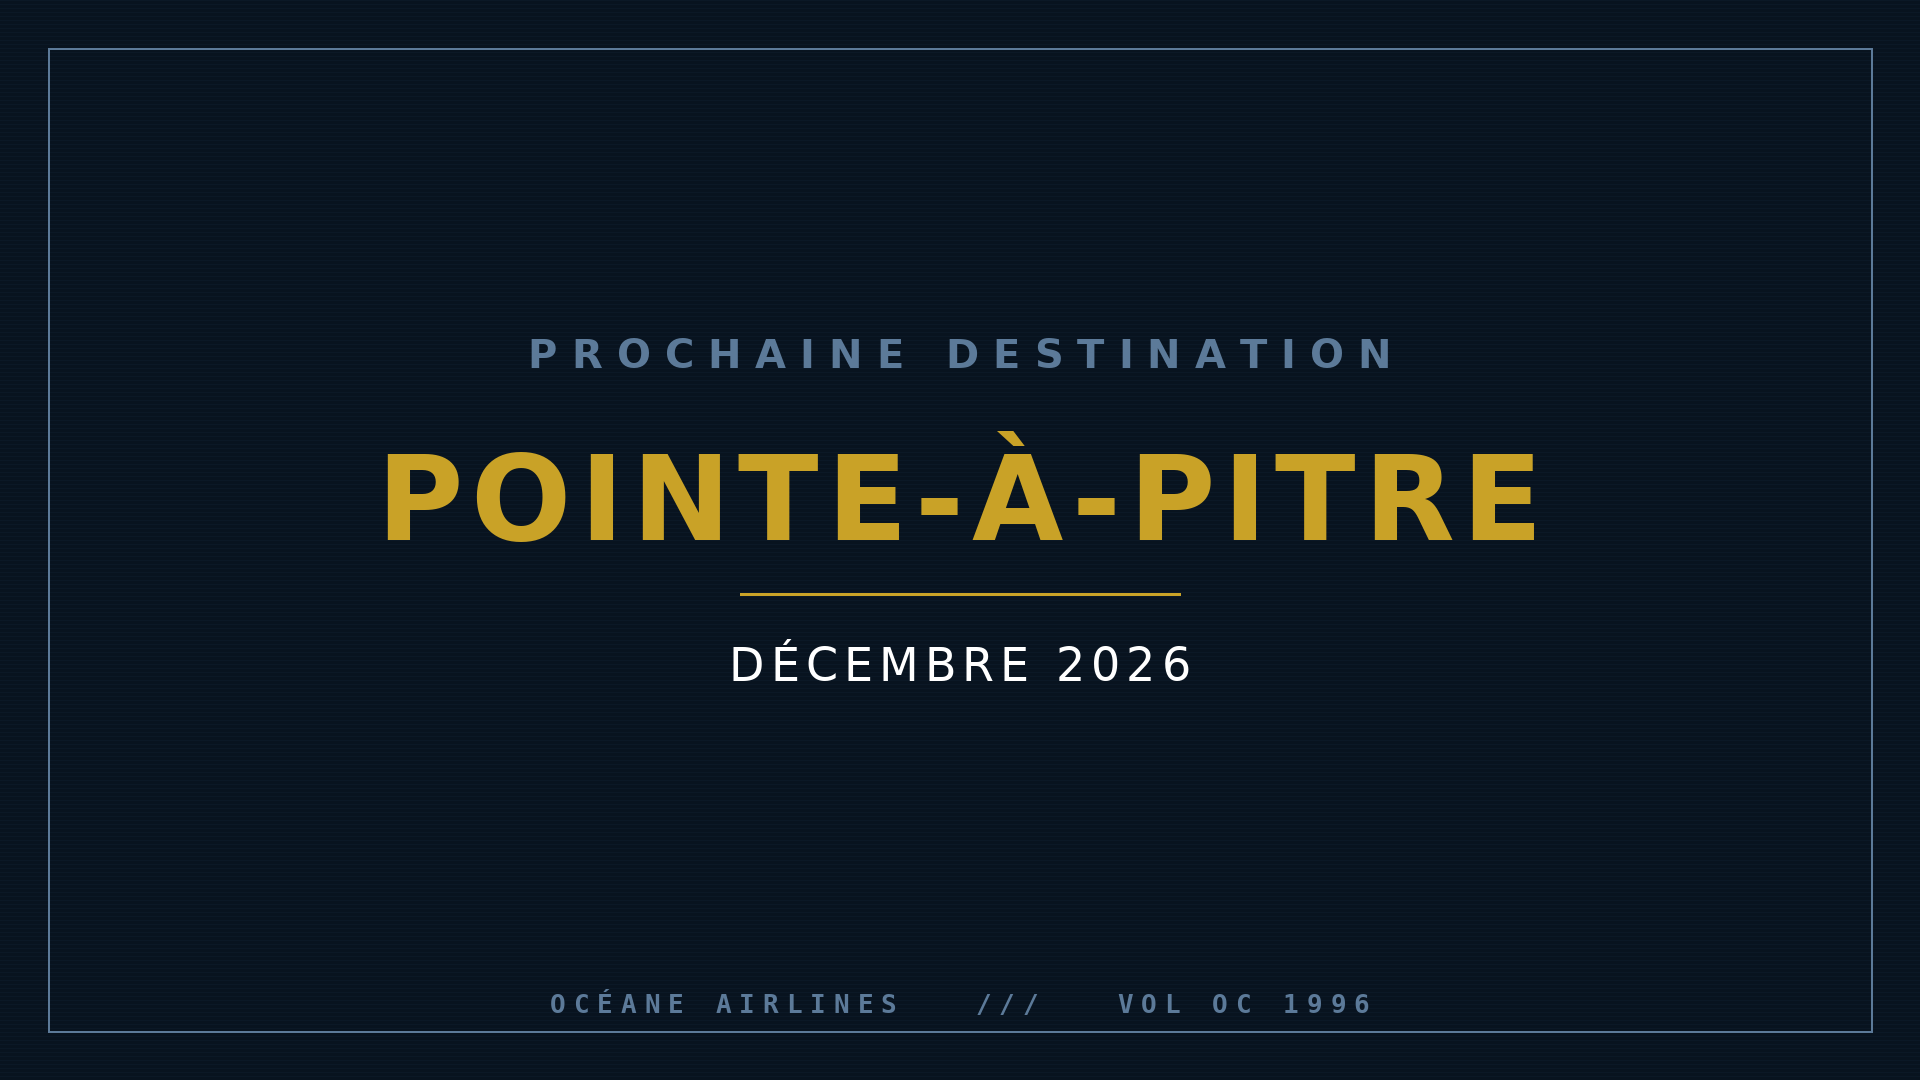
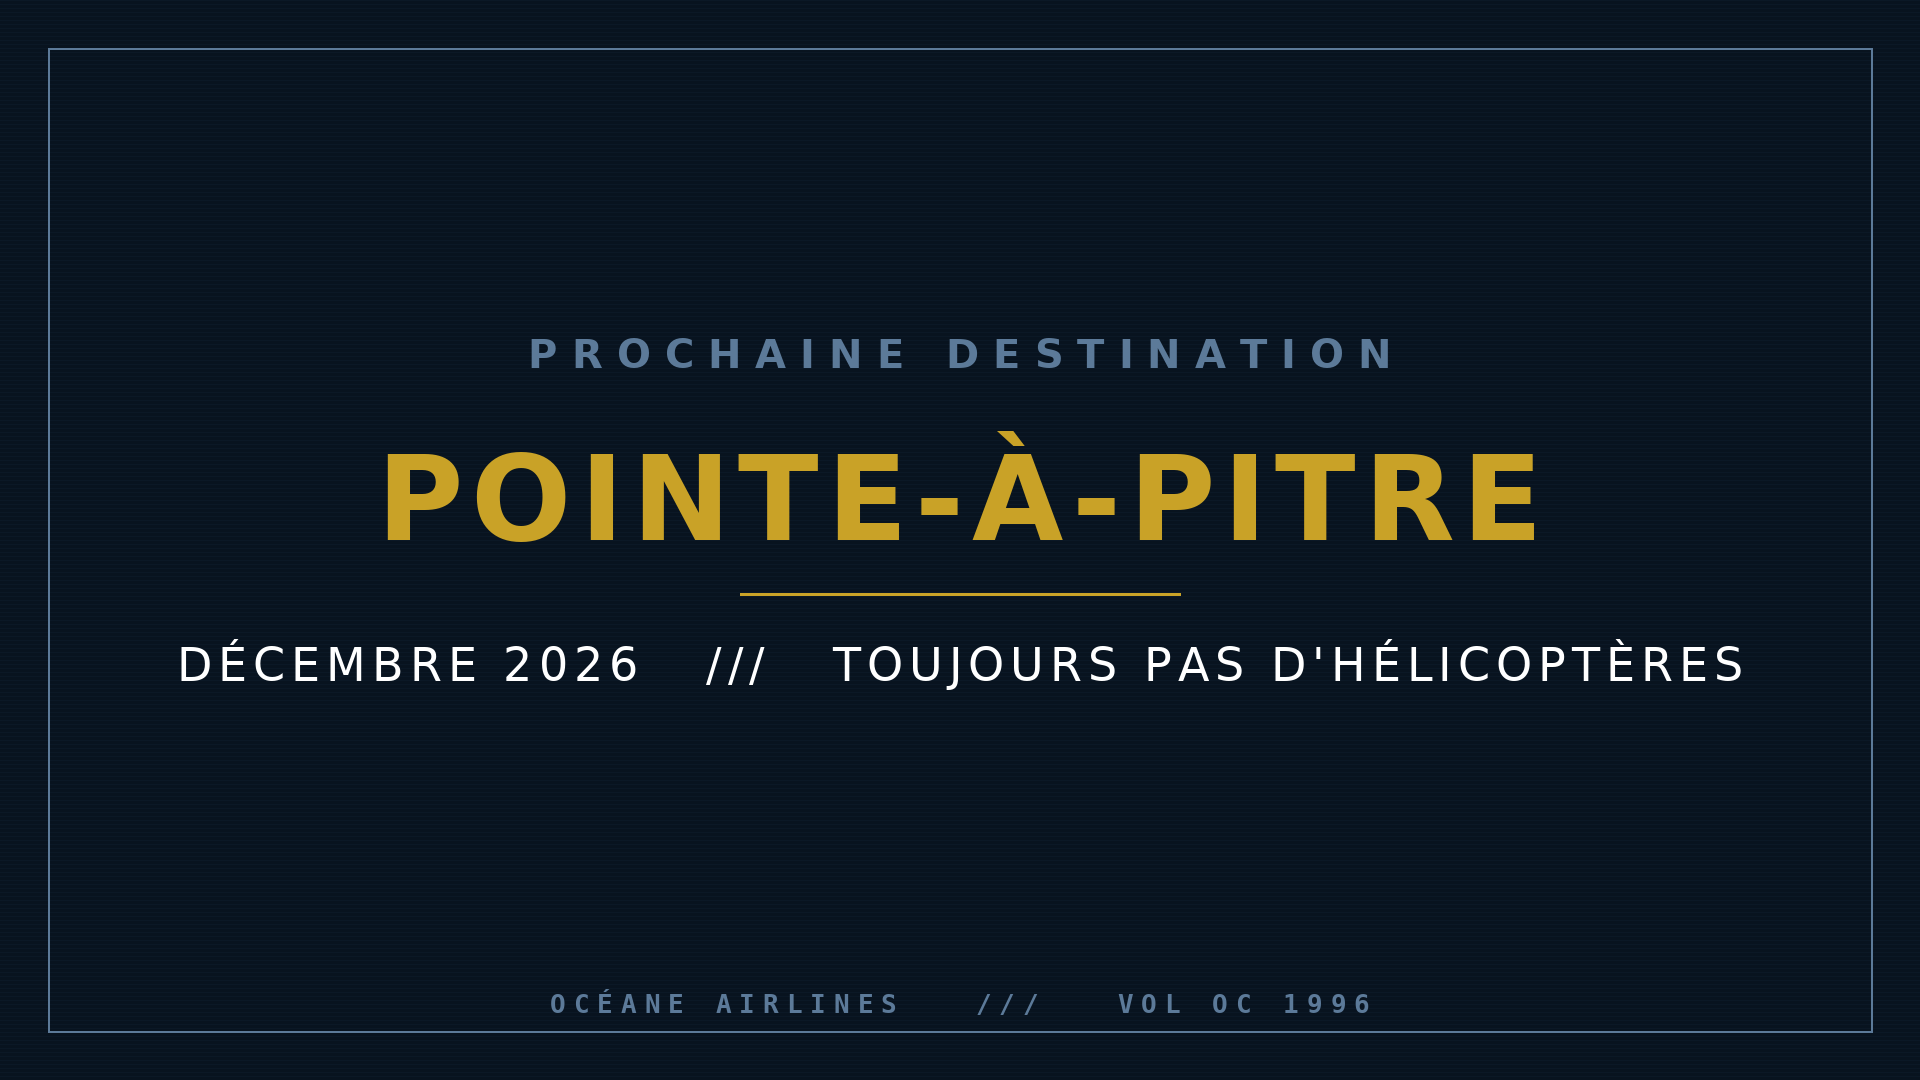
La fin en deux temps, et harmonisation de la boucle Sébastien
Le film se termine désormais sur deux cartons séparés par une seconde
de noir : la vanne hélicoptère d'abord, puis « même équipage » seul au
milieu de l'écran. Le rire, le silence, dans cet ordre.

Les fichiers 14 et 15 proposaient deux boucles Sébastien différentes,
toutes les deux bonnes. Elles sont fusionnées en une seule demande :
il enregistre trois fins à la suite dans la même prise, la phrase
valise, la question « et toi, tu viens quand ? » qui reste à 3:30, et
la réponse réservée pour 7:00. Le choix se fait au montage, avec le
rythme sous les yeux, et les deux prises sont déjà en boîte.

Claude-Session: https://claude.ai/code/session_01GHY3CcJp7kTNLmSRbuqRZj

Changed region(s): [[0.375, 0.5806, 0.9062, 0.6417], [0.0938, 0.5806, 0.25, 0.6417], [0.2812, 0.5806, 0.3438, 0.6417]]

diff --git a/oceane-airlines/cartons/generer-cartons.py b/oceane-airlines/cartons/generer-cartons.py
@@ -178,6 +178,15 @@ def boarding_pass():
     print("  13-carte-embarquement.png")
 
 
+def meme_equipage():
+    """Le second carton final, apres une seconde de noir. Deux mots, rien d'autre."""
+    img = Image.new("RGB", (W, H), (4, 10, 17))
+    d = ImageDraw.Draw(img)
+    draw_tracked(d, (W / 2, H / 2 - 70), "MÊME ÉQUIPAGE", f(FB, 116), GOLD, tracking=14)
+    img.save(os.path.join(OUT, "12b-carton-meme-equipage.png"))
+    print("  12b-carton-meme-equipage.png")
+
+
 print("Generation des cartons :")
 logo()
 board()
@@ -193,6 +202,8 @@ card("08-carton-duty-free.png", "VENTE À BORD", "BOUTIQUE HORS TAXES", "OFFRES 
 card("09-carton-presidence.png", "DIRECTION", "CONSEIL D'ADMINISTRATION", "SÉANCE EXCEPTIONNELLE")
 card("10-carton-perte-signal.png", "", "PERTE DE SIGNAL", "TRANSMISSION INTERROMPUE", accent=RED)
 card("11-carton-maternite.png", "ARRIVÉES", "TERMINAL MATERNITÉ", "PLUS JEUNE PASSAGÈRE")
-card("12-carton-final.png", "PROCHAINE DESTINATION", "POINTE-À-PITRE", "DÉCEMBRE 2026", accent=GOLD)
+card("12-carton-final.png", "PROCHAINE DESTINATION", "POINTE-À-PITRE",
+     "DÉCEMBRE 2026   ///   TOUJOURS PAS D'HÉLICOPTÈRES", accent=GOLD)
+meme_equipage()
 boarding_pass()
 print("Termine.")

diff --git a/oceane-airlines/15-briefs-escales.md b/oceane-airlines/15-briefs-escales.md
@@ -342,11 +342,16 @@ Il arrive juste après les turbulences, donc juste après le gros gag de la cond
 
 Ils y sont allés une fois, et ils y retournent à Noël. **C'est lui qui ferme le film.** Le dernier carton annonce la prochaine destination, Pointe-à-Pitre, décembre 2026. Donc son clip doit boucler là-dessus.
 
-**Demande-lui deux fins, enregistrées l'une après l'autre**, dans la même prise :
-1. La phrase valise, comme tout le monde.
-2. Puis, séparément, une phrase courte du genre « et de toute façon, en décembre, c'est nous qui vous attendons ici ».
+**Demande-lui trois fins, enregistrées à la suite dans la même prise.** Ça ne lui coûte que trente secondes de plus, et ça te laisse le choix au montage :
+1. **La phrase valise**, comme tout le monde.
+2. **La question**, juste après : « Et toi, tu viens quand ? » Elle reste à sa place, à 3:30.
+3. **La réponse**, séparément : « et de toute façon, en décembre, c'est nous qui vous attendons ici ».
 
-La deuxième, tu la sors de son clip au montage et tu la poses à 7:00, juste avant le dernier carton. C'est la seule voix du film qui revient à la fin, et c'est la meilleure façon d'arriver sur la vraie nouvelle.
+Au montage, deux options. Soit tu gardes la question à 3:30 et tu laisses **le carton final y répondre** trois minutes et demie plus tard, sans revoir Sébastien. Soit tu déplaces sa phrase 3 à 7:00, juste avant le carton, et sa voix est la dernière du film.
+
+La première est plus forte : une question posée au milieu, une réponse à la toute fin, et entre les deux le spectateur a oublié qu'il attendait quelque chose. La deuxième est plus chaleureuse. Tu trancheras à l'ours, quand tu auras le rythme sous les yeux. Comme tu as les deux prises, tu ne peux pas te tromper.
+
+> ⚠ Si « tu viens quand » ne se dit pas comme ça chez lui, deux variantes sont proposées dans `14-sequences-collectives.md`.
 
 ## L'atout : le décalage et le décor
 

diff --git a/oceane-airlines/cartons/README.md b/oceane-airlines/cartons/README.md
@@ -17,7 +17,18 @@
 | `10-carton-perte-signal.png` | Perte de signal, 5:30 |
 | `11-carton-maternite.png` | Terminal Maternité, 6:00 |
 | `12-carton-final.png` | Carton final, 7:00 |
+| `12b-carton-meme-equipage.png` | La toute dernière image, après une seconde de noir |
 | `13-carte-embarquement.png` | Bonus, à imprimer et faire signer |
+
+## La fin en deux temps
+
+Le film ne se termine pas sur un carton mais sur deux, séparés par **une seconde de noir complet**.
+
+1. `12-carton-final.png`, quatre secondes. On sort sur un rire : la compagnie n'a toujours pas d'hélicoptères, et c'est la seule experte en hélicoptères de la salle qui le lit.
+2. Une seconde de noir. Le rire retombe.
+3. `12b-carton-meme-equipage.png`, trois secondes. Deux mots seuls au milieu de l'écran. Ils ne parlent plus du voyage, ils parlent d'eux trois. Ça dit « on sera encore tous là » sans avoir à le dire.
+
+C'est la seule chose du montage où l'ordre compte vraiment. Le rire d'abord, le silence ensuite. Jamais l'inverse.
 
 ## Comment les utiliser dans iMovie
 Glisse le PNG sur la timeline comme une photo. Durée conseillée : **2 secondes pour un carton d'escale**, 3 secondes pour le logo et le panneau des départs, 4 secondes pour le carton final.
